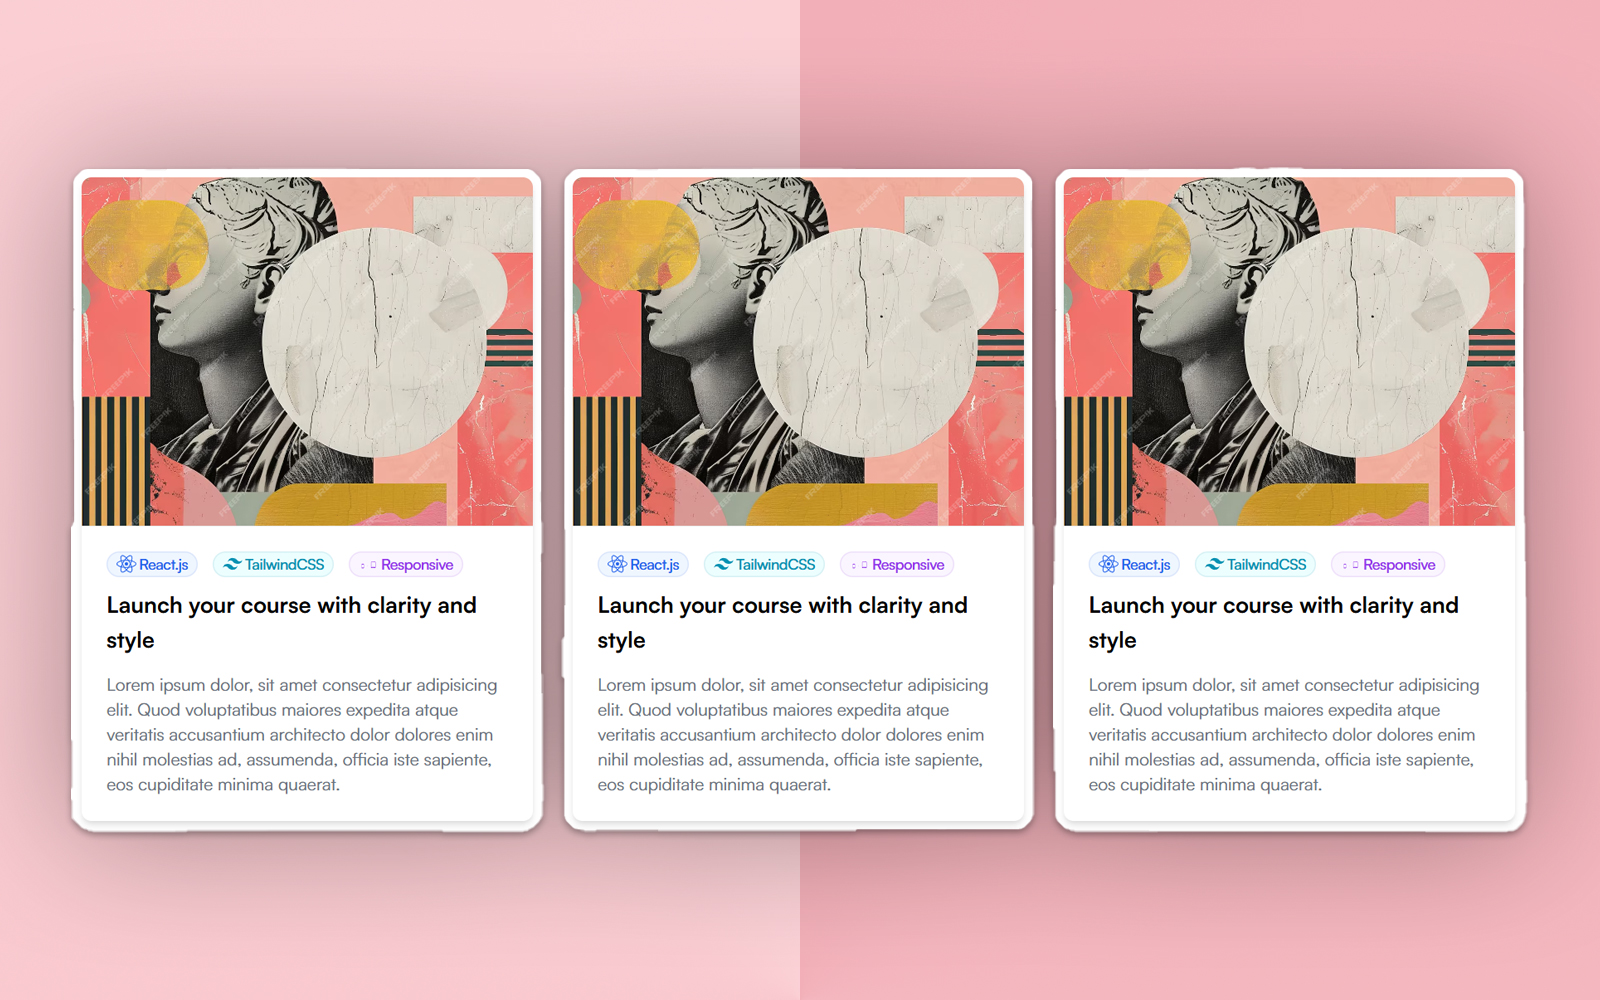
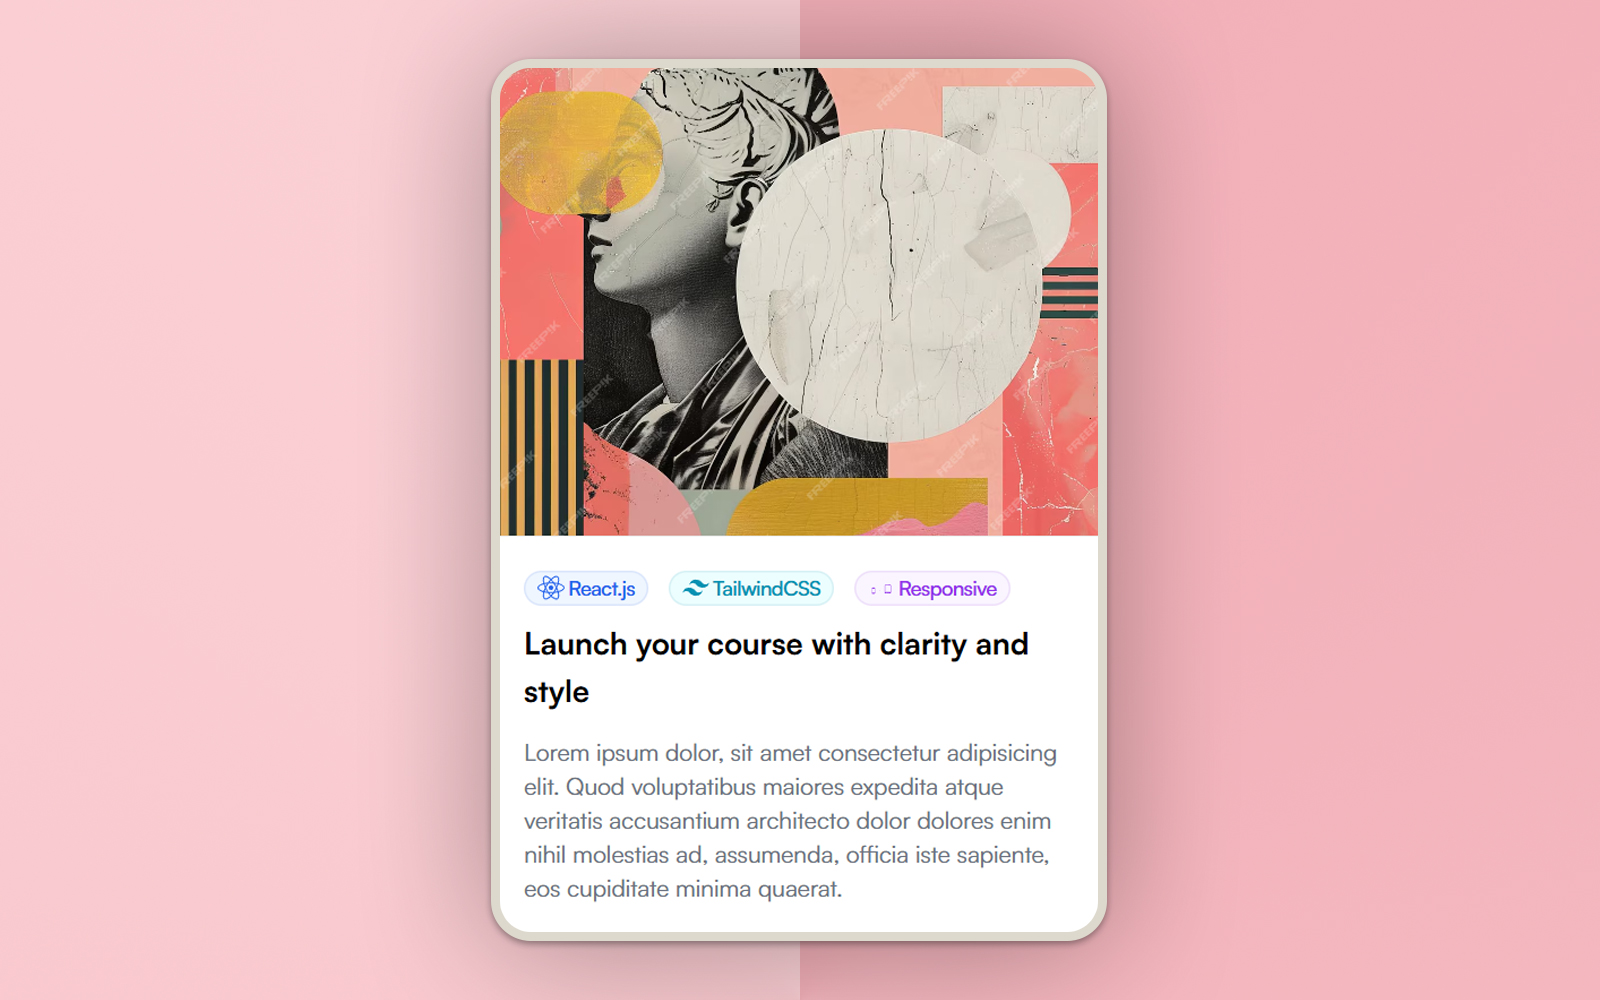
Update: 2025-08-10 12:22:13 [public/images/blog/cad-responsivo.jpg, src/utils/CardBlog.jsx]

diff --git a/src/utils/CardBlog.jsx b/src/utils/CardBlog.jsx
@@ -1,7 +1,10 @@
 import React from "react";
 import { HiMiniArrowTopRightOnSquare } from "react-icons/hi2";
 import { PiDotDuotone } from "react-icons/pi";
-import imgAvatar from "../assets/logo/lodexstudio-logo-white.svg"
+import { RiTailwindCssFill } from "react-icons/ri";
+import { DiResponsive } from "react-icons/di";
+import { FaReact } from "react-icons/fa";
+import imgAvatar from "../assets/logo/lodexstudio-logo-white.svg";
 
 const day = new Date().toLocaleDateString("pt-PT", { day: "2-digit" });
 const month = new Date().toLocaleDateString("pt-PT", { month: "long" });
@@ -24,8 +27,57 @@ const cardData = [
         date: generalDate,
       },
     ],
+
+    Badge: [
+      {
+        icon: <FaReact className="w-4 h-4" />,
+        label: "React.js",
+        link: "https://react.dev/",
+      },
+      {
+        icon: <RiTailwindCssFill className="w-4 h-4" />,
+        label: "TailwindCSS",
+        link: "https://tailwindcss.com/",
+      },
+      {
+        icon: <DiResponsive className="w-4 h-4" />,
+        label: "Responsive",
+        link: "https://developer.mozilla.org/en-US/docs/Learn_web_development/Core/CSS_layout/Responsive_Design",
+      },
+    ],
   },
 ];
+
+// Badge Component
+const Badge = ({ icon, label, link }) => {
+  return (
+    <a
+      className={`flex items-center gap-0.5 rounded-full px-2 py-[0.5px] text-xs font-medium font-Satoshi tracking-tight ring-1 ring-inset leading-relaxed transition-transform duration-500 ease-in-out
+
+    ${
+      label === "React.js"
+        ? "bg-blue-50 text-blue-600 ring-blue-700/10"
+        : label === "TailwindCSS"
+        ? "bg-cyan-50 text-[#38bdf8] ring-[#38bdf8]/10"
+        : label === "Responsive"
+        ? "bg-purple-50 text-purple-600 ring-purple-700/10"
+        : label === "Mobile-First UI"
+        ? "bg-gray-50 text-gray-600 ring-gray-700/10"
+        : label === "Framer Motion"
+        ? "bg-pink-50 text-pink-600 ring-pink-700/10"
+        : label === "SEO Optimized"
+        ? "bg-red-50 text-red-600 ring-red-700/10"
+        : "bg-gray-50 text-gray-600 ring-gray-700/10"
+    }
+  `}
+      href={link}
+      target="_blank"
+      rel="noopener noreferrer"
+    >
+      {icon} {label}
+    </a>
+  );
+};
 
 function CardBlog() {
   return (
@@ -37,7 +89,7 @@ function CardBlog() {
               <div className="group cursor-pointer">
                 <div
                   key={index}
-                  className="relative flex flex-col transition-shadow duration-500  overflow-hidden rounded-xl"
+                  className="relative flex flex-col transition-shadow duration-500  overflow-hidden rounded-xl shadow-md"
                 >
                   <img
                     className="w-full h-[240px] rounded-xl object-cover transition-transform duration-500 group-hover:scale-105 group-hover:rounded-xl"
@@ -51,7 +103,26 @@ function CardBlog() {
                   </div>
                 </div>
 
-                <div className="py-4 justify-between flex-1 items-start">
+                {/* Card content */}
+                <div
+                  className="border-t border-[#EBEBEB] pt-4
+               flex flex-col justify-between flex-1 itemce"
+                >
+                  <div className="flex items-center gap-3 flex-wrap">
+                    {card.Badge &&
+                      card.Badge.map((badge, index) => (
+                        <Badge
+                          key={index}
+                          icon={badge.icon}
+                          color={badge.color}
+                          label={badge.label}
+                          link={badge.link}
+                        />
+                      ))}
+                  </div>
+                </div>
+
+                <div className="py-2 justify-between flex-1 items-start">
                   <h5 className="sm:text-sm md:text-base lg:text-lg text-start font-bold font-Satoshi leading-tight mb-3">
                     {card.title}
                   </h5>
@@ -67,10 +138,12 @@ function CardBlog() {
                       className="flex items-center justify-center gap-2"
                     >
                       <div className="flex items-center justify-center w-8 h-8 bg-terciario rounded-full">
-                        <img src={avt.foto} alt="avatar" className="size-4" /> 
+                        <img src={avt.foto} alt="avatar" className="size-4" />
                       </div>
                       <div className="flex ">
-                        {avt.autor} <PiDotDuotone className="size-6 text-secundario" /> {avt.date}
+                        {avt.autor}{" "}
+                        <PiDotDuotone className="size-6 text-secundario" />{" "}
+                        {avt.date}
                       </div>
                     </div>
                   ))}
